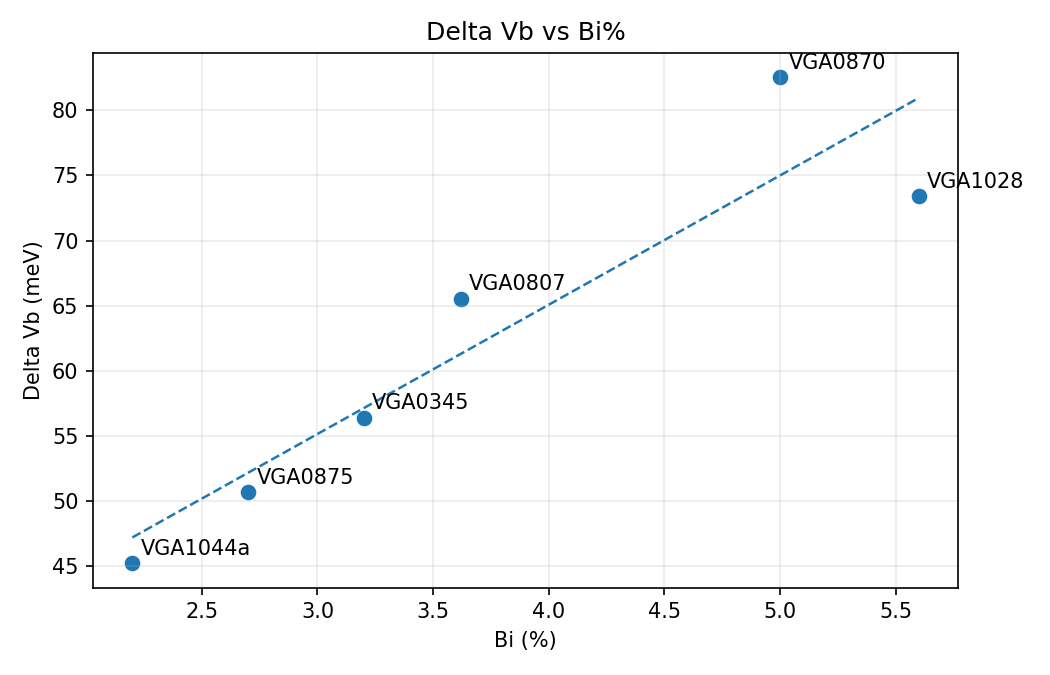
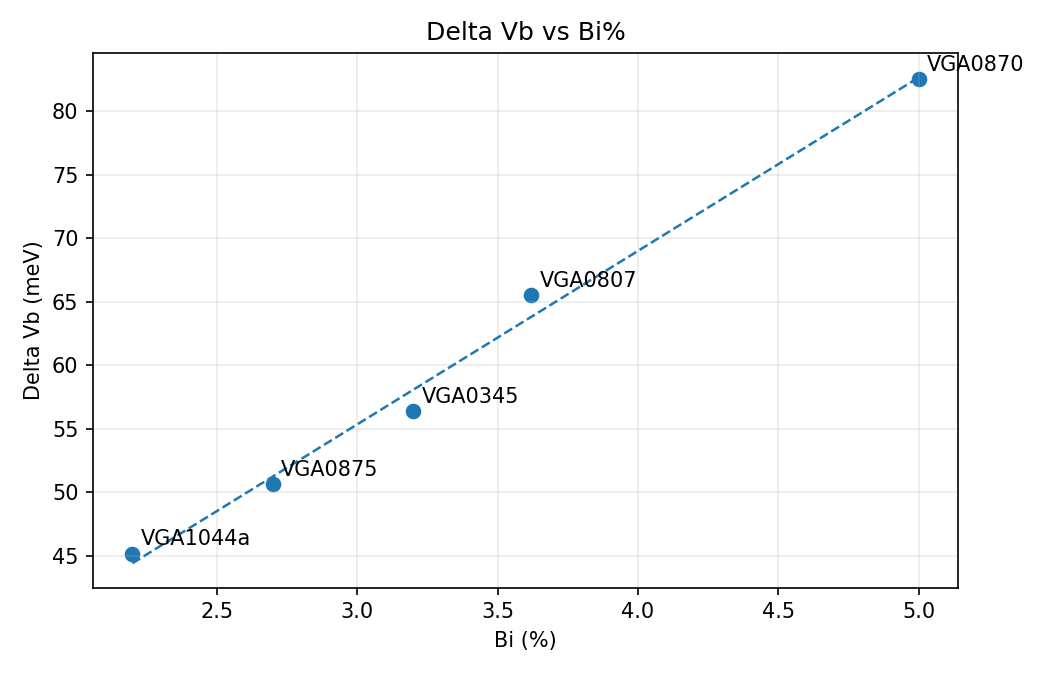
Update GaAsBi results database

diff --git a/README.md b/README.md
@@ -68,7 +68,7 @@ measurement files, unless there is a deliberate reason to share them.
 <!-- comparison-plots:start -->
 ## Current Comparison Plots
 
-Records in database: `6`
+Records in database: `5`
 
 These plots are regenerated by the app from `selected_results.jsonl`.
 